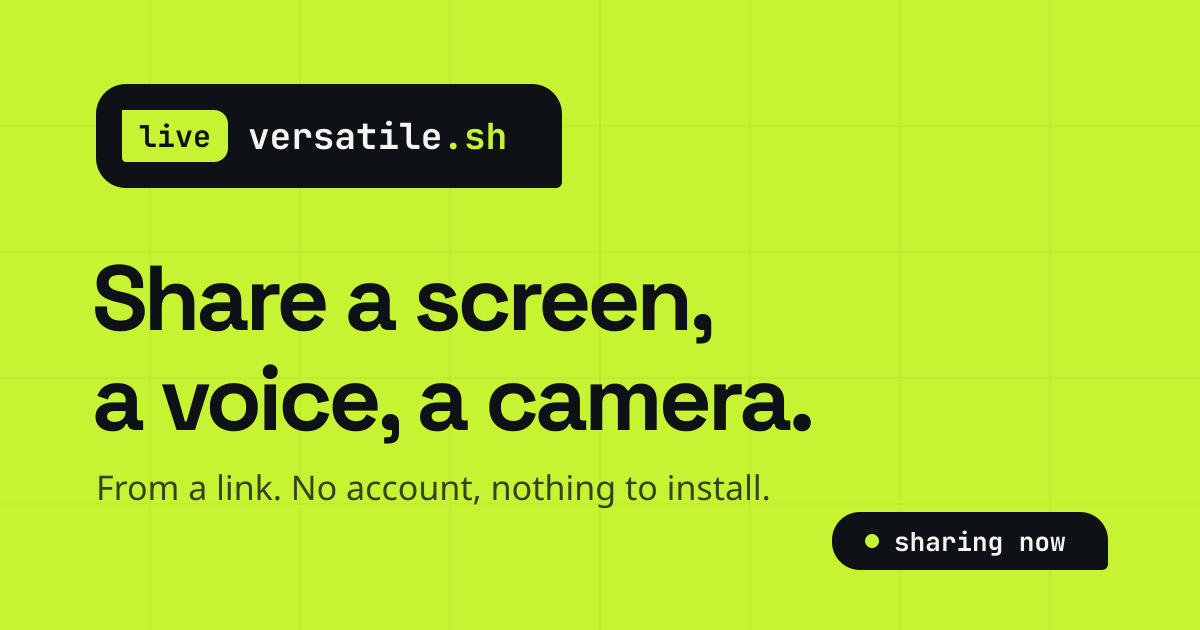
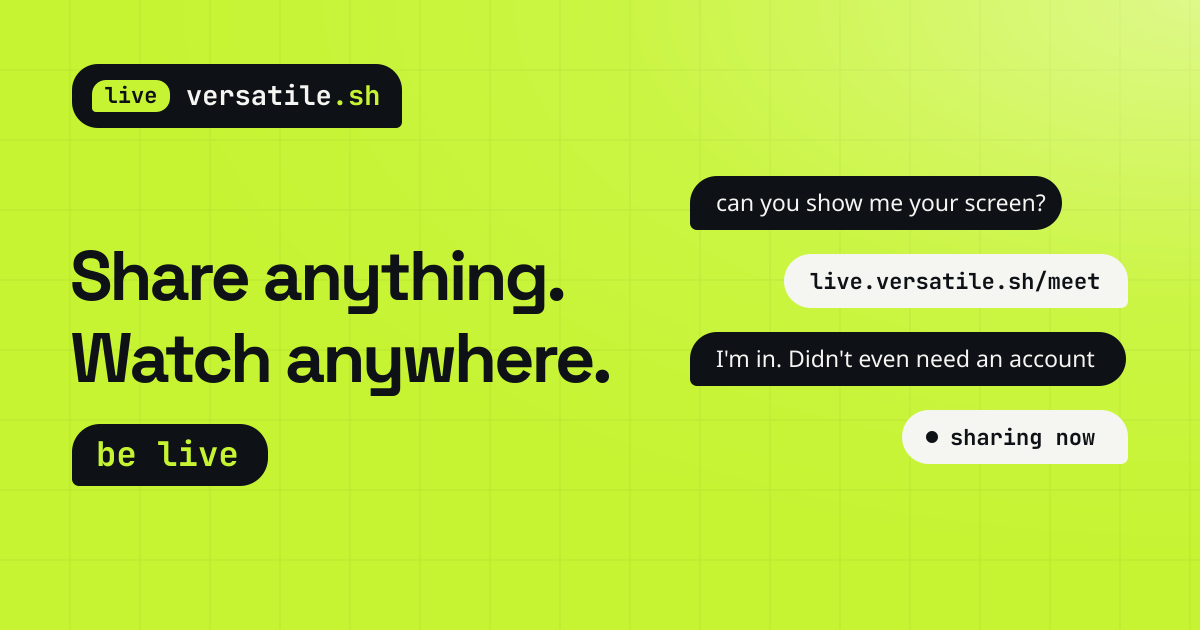
fix(web): the link preview follows the front page's pitch and carries the slogan

diff --git a/web/index.html b/web/index.html
@@ -10,17 +10,17 @@
     <meta name="theme-color" content="#c6f432" />
     <meta property="og:type" content="website" />
     <meta property="og:site_name" content="live.versatile.sh" />
-    <meta property="og:title" content="live.versatile.sh · rooms to share a screen, a voice and a camera" />
+    <meta property="og:title" content="live.versatile.sh · Share anything. Watch anywhere." />
     <meta property="og:description" content="Open a room by name and send the link. No account, nothing to install." />
     <meta property="og:url" content="https://live.versatile.sh/" />
     <meta property="og:image" content="https://live.versatile.sh/assets/og.png" />
     <meta property="og:image:type" content="image/png" />
     <meta property="og:image:width" content="1200" />
     <meta property="og:image:height" content="630" />
-    <meta property="og:image:alt" content="live.versatile.sh: share a screen, a voice, a camera. From a link." />
+    <meta property="og:image:alt" content="live.versatile.sh: Share anything. Watch anywhere. Be live." />
     <meta name="twitter:card" content="summary_large_image" />
     <meta name="twitter:site" content="@versatile_sh" />
-    <meta name="twitter:title" content="live.versatile.sh" />
+    <meta name="twitter:title" content="live.versatile.sh · Share anything. Watch anywhere." />
     <meta name="twitter:description" content="Rooms to share a screen, a voice and a camera from a link. No account, nothing to install." />
     <meta name="twitter:image" content="https://live.versatile.sh/assets/og.png" />
   </head>
